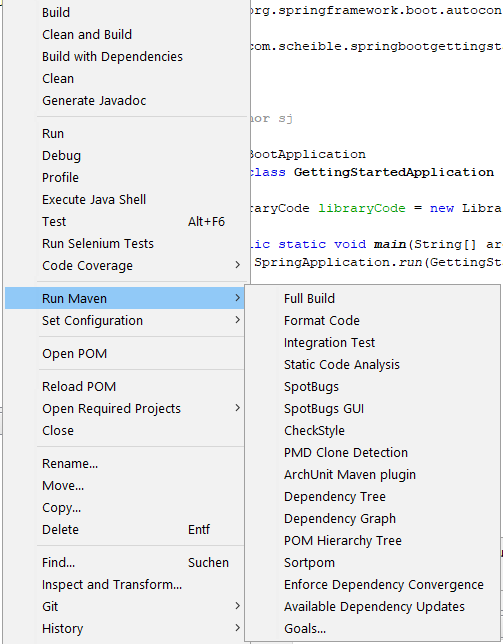
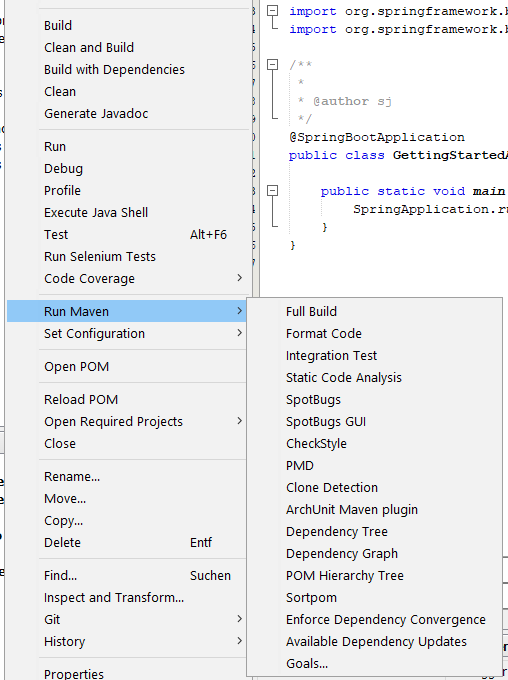
- updated the README.md

diff --git a/README.md b/README.md
@@ -10,7 +10,8 @@ Highly opinionated build with selection of Maven plugins made accessible via the
 The two projects in `spring-boot-netbeans-single-module` and `spring-boot-netbeans-multi-module` can be used as templates.
 
  In order to speed up the IDE actions as much as possible **[Run]**, **[Debug]**, and **[Test]** are even skipping `resources:[test]Resources` and `compiler:[test]Compile` and simply use the current contents of the `target` directory.
-This is done with the `maven-skip-execution-profile-extension` that automatically creates the profiles needed for skipping certain plugins actions.
+This is done with the `maven-skip-execution-profile-extension` that automatically creates the (runtime) profiles needed for skipping certain plugins actions.
+The profiles don't end up in the actual POM.
 
 ![Sample Web applcation](./nbactions.png)
 
@@ -22,11 +23,12 @@ This is done with the `maven-skip-execution-profile-extension` that automaticall
   - **[Full Build]** a full `clean install` with verification
   - **[Format Code]** `formatter:format` according to `eclipse-formatter-config.xml` and `impsort:sort`  
   - **[Integration Test]** `failsafe:integration-test`
-  - **[Static Code Analysis]** `spotbugs:check`, `checkstyle:check`, `pmd:cpd-check` abd `arch-unit:arch-test`
+  - **[Static Code Analysis]** `spotbugs:check`, `checkstyle:check`, `pmd:check`, `pmd:cpd-check` and `arch-unit:arch-test`
   - **[SpotBugs]** `spotbugs:check`
   - **[SpotBugs GUI]** `spotbugs:gui`
-  - **[Checkstyle]** `checkstyle:check` for checking Cyclomatic Complexity
-  - **[PMD Clone Detection]** `pmd:cpd-check`
+  - **[Checkstyle]** `checkstyle:check` for metric checking  ([Cyclomatic Complexity](https://checkstyle.org/config_metrics.html#CyclomaticComplexity) and [NCSS](https://checkstyle.org/config_metrics.html#JavaNCSS))
+  - **[PMD]** `pmd:check`
+  - **[Clone Detection]** `pmd:cpd-check`
   - **[ArchUnit Maven plugin]** `arch-unit:arch-test` 
   - **[Dependency Tree]** `dependency:tree`
   - **[Dependency Graph]** `depgraph:graph`
@@ -39,5 +41,5 @@ This is done with the `maven-skip-execution-profile-extension` that automaticall
 1. recent JDK 8 (also works with Java 11, just set the property `java.version` to `11` to for example use the `var` keyword)
 1. recent Maven (tested with 3.6.1)
 1. Netbeans >= 8.2 (`nbactions.xml` tested with 8.2 and 11.1)
-1. `mvn clean install` in `skip-execution-profile/maven-skip-execution-profile-extension` directory
+1. `mvn clean install` in `skip-execution-profile/maven-skip-execution-profile-extension` directory of the repository
 1. `mvn clean install` of [Pocketsaw 1.3.2](https://github.com/janScheible/pocketsaw/tree/1.3.2)
